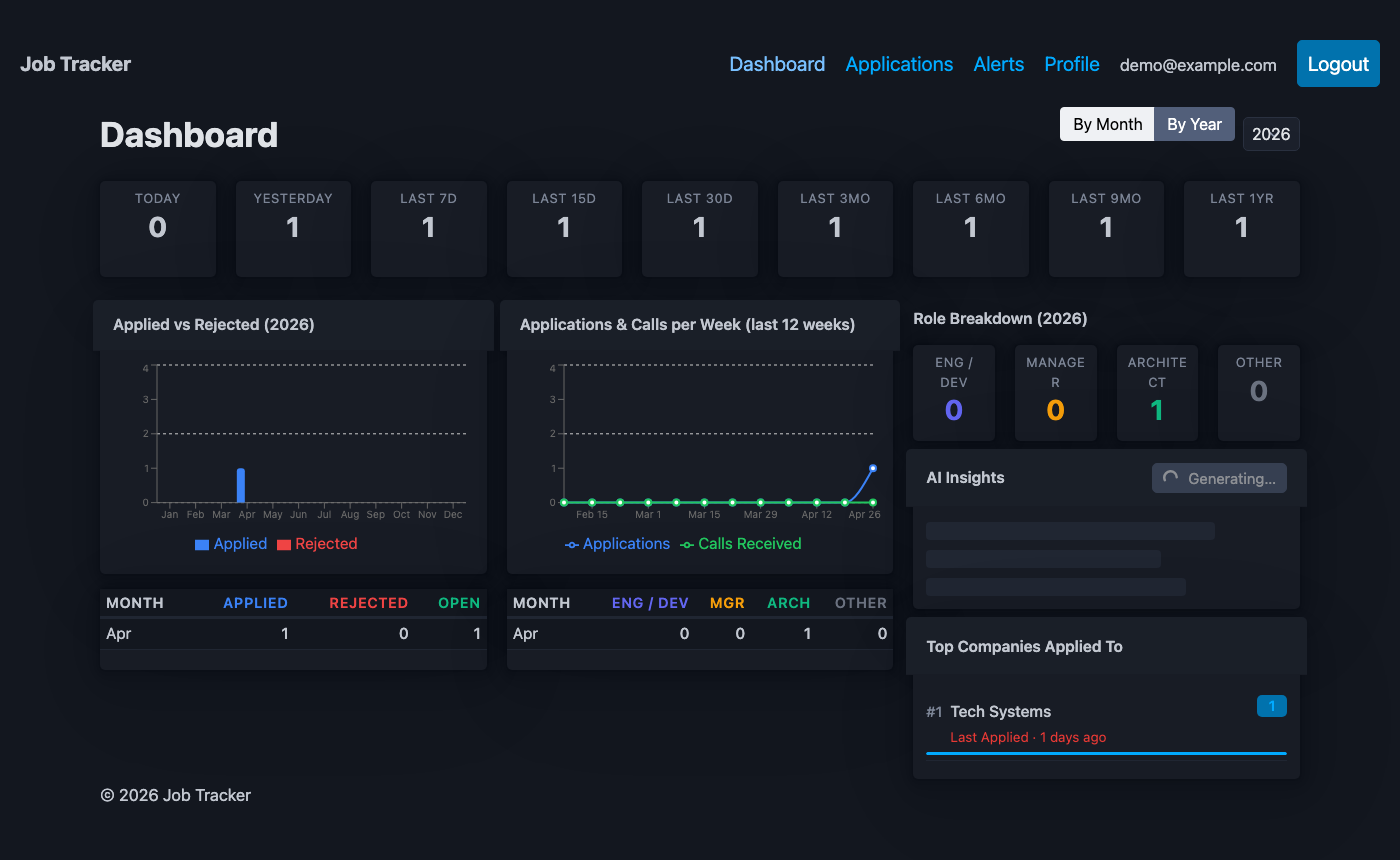
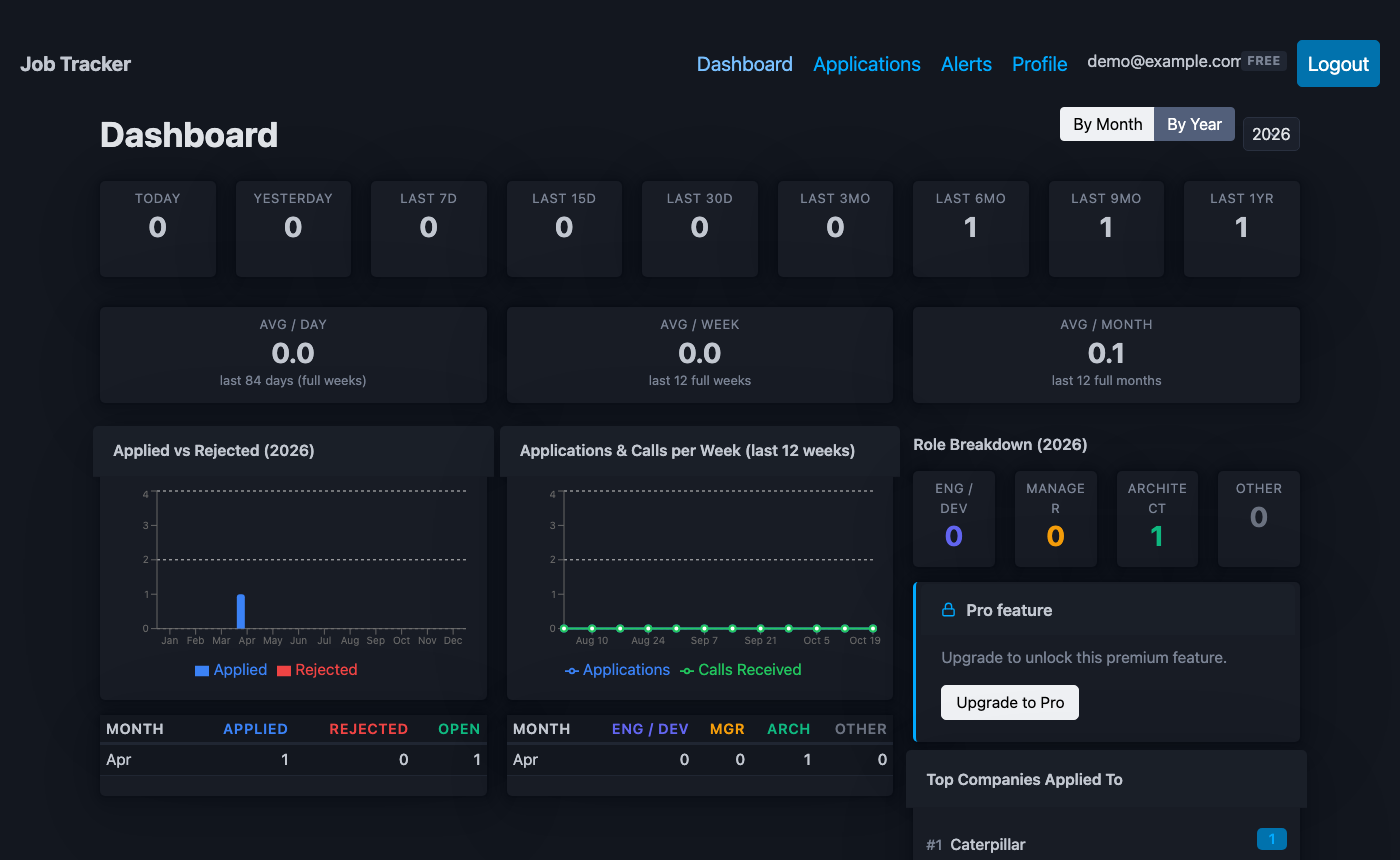
feat(stats): add daily/weekly/monthly application averages to dashboard
- stats-service: new GET /v1/stats/averages (trailing 12 completed weeks and
  12 completed months; current partial period excluded; daily = weekly total / 84),
  Redis-cached per user
- stats-listener: evict stats-averages cache on every event
- frontend: AverageCards component under the open-window cards
- docker-compose: cap stats-service heap at 384m (Xmx512m == 512m container
  limit caused OOM kills)
- README + dashboard screenshot updated

diff --git a/frontend/src/routes/Dashboard.tsx b/frontend/src/routes/Dashboard.tsx
@@ -1,9 +1,10 @@
 import { useEffect, useState } from 'react'
 import { useQuery } from '@tanstack/react-query'
-import { getBreakdown, getRoleCounts, getStaleApps, getTopCompanies, getTrend, type BreakdownResponse, type CompanyCount, type RoleCountsResponse, type StaleApp, type TrendPoint } from '../api/stats'
+import { getAverages, getBreakdown, getRoleCounts, getStaleApps, getTopCompanies, getTrend, type Averages, type BreakdownResponse, type CompanyCount, type RoleCountsResponse, type StaleApp, type TrendPoint } from '../api/stats'
 import { getAiInsights } from '../api/ai'
 import DashboardHeader from '../components/dashboard/DashboardHeader'
 import OpenWindowsCards from '../components/dashboard/OpenWindowsCards'
+import AverageCards from '../components/dashboard/AverageCards'
 import AppliedVsRejectedChart from '../components/dashboard/AppliedVsRejectedChart'
 import WeeklyTrendChart from '../components/dashboard/WeeklyTrendChart'
 import RoleBreakdownTable from '../components/dashboard/RoleBreakdownTable'
@@ -70,6 +71,13 @@ export default function Dashboard() {
     staleTime: 60_000,
   })
 
+  const { data: averages, isLoading: averagesLoading } = useQuery<Averages>({
+    queryKey: ['averages'],
+    queryFn: getAverages,
+    enabled: !USE_MOCK,
+    staleTime: 5 * 60 * 1000,
+  })
+
   const { data: trendData, isLoading: trendLoading } = useQuery<TrendPoint[]>({
     queryKey: ['trend', '12'],
     queryFn: () => getTrend('week', 12),
@@ -98,6 +106,8 @@ export default function Dashboard() {
       />
 
       <OpenWindowsCards windows={windows} loading={loading} />
+
+      {!USE_MOCK && <AverageCards averages={averages} loading={averagesLoading} />}
 
       {error && <article><header>Error</header><p>{error}</p></article>}
       {loading && <article aria-busy="true"><p>Loading…</p></article>}

diff --git a/frontend/src/components/dashboard/AverageCards.tsx b/frontend/src/components/dashboard/AverageCards.tsx
@@ -1,0 +1,26 @@
+import type { Averages } from '../../api/stats'
+
+interface AverageCardsProps {
+  averages: Averages | undefined
+  loading: boolean
+}
+
+export default function AverageCards({ averages, loading }: AverageCardsProps) {
+  const cards = [
+    { label: 'Avg / day', value: averages?.dailyAverage, sub: `last ${(averages?.weeks ?? 12) * 7} days (full weeks)` },
+    { label: 'Avg / week', value: averages?.weeklyAverage, sub: `last ${averages?.weeks ?? 12} full weeks` },
+    { label: 'Avg / month', value: averages?.monthlyAverage, sub: `last ${averages?.months ?? 12} full months` },
+  ]
+
+  return (
+    <div className="grid" style={{ marginBottom: '0.5rem' }}>
+      {cards.map(({ label, value, sub }) => (
+        <article key={label} style={{ textAlign: 'center', padding: '0.4rem 0.35rem' }}>
+          <div style={{ fontSize: '0.65rem', color: 'var(--pico-muted-color)', textTransform: 'uppercase', letterSpacing: '0.05em', marginBottom: '0.2rem' }}>{label}</div>
+          <div style={{ fontSize: '1.4rem', fontWeight: 700, lineHeight: 1 }}>{loading || value === undefined ? '—' : value.toFixed(1)}</div>
+          <div style={{ fontSize: '0.65rem', color: 'var(--pico-muted-color)', marginTop: '0.2rem' }}>{sub}</div>
+        </article>
+      ))}
+    </div>
+  )
+}

diff --git a/frontend/src/api/stats.ts b/frontend/src/api/stats.ts
@@ -25,6 +25,20 @@ export async function getTrend(period = 'week', weeks = 12): Promise<TrendPoint[
   return res.data.points
 }
 
+export interface Averages {
+  dailyAverage: number
+  weeklyAverage: number
+  monthlyAverage: number
+  weeks: number
+  months: number
+  generatedAt: string
+}
+
+export async function getAverages(): Promise<Averages> {
+  const res = await httpStats.get<Averages>('/stats/averages')
+  return res.data
+}
+
 export interface BreakdownRow {
   label: string
   periodNum: number

diff --git a/backend/stats-service/src/main/java/com/jobtracker/stats/service/StatsService.java b/backend/stats-service/src/main/java/com/jobtracker/stats/service/StatsService.java
@@ -1,6 +1,7 @@
 package com.jobtracker.stats.service;
 
 import com.jobtracker.stats.api.dto.ActivityItemDto;
+import com.jobtracker.stats.api.dto.AveragesDto;
 import com.jobtracker.stats.api.dto.BreakdownResponseDto;
 import com.jobtracker.stats.api.dto.CompanyCountDto;
 import com.jobtracker.stats.api.dto.StaleAppDto;
@@ -34,6 +35,9 @@ public class StatsService {
 
     private static final Logger log = LoggerFactory.getLogger(StatsService.class);
     private static final DateTimeFormatter DATE_FMT = DateTimeFormatter.ofPattern("yyyy-MM-dd");
+
+    private static final int AVG_WEEKS = 12;
+    private static final int AVG_MONTHS = 12;
 
     private final JdbcTemplate jdbc;
     private final Counter queriesCounter;
@@ -101,6 +105,39 @@ public class StatsService {
         }
 
         return new TrendResponseDto("week", points);
+    }
+
+    @Cacheable(cacheNames = CacheConfig.CACHE_AVERAGES, key = "#userId + ':trailing'")
+    public AveragesDto getAverages(UUID userId) {
+        log.info("Serving averages query userId={}", userId);
+        queriesCounter.increment();
+
+        // Trailing completed periods only; the current partial week/month is excluded.
+        LocalDate thisMonday = LocalDate.now().with(TemporalAdjusters.previousOrSame(DayOfWeek.MONDAY));
+        LocalDate weekFrom = thisMonday.minusWeeks(AVG_WEEKS);
+        Long weekTotal = jdbc.queryForObject(
+                "SELECT COALESCE(SUM(cnt),0) FROM agg_weekly WHERE user_id=? AND week_start >= ? AND week_start < ?",
+                Long.class, userId, Date.valueOf(weekFrom), Date.valueOf(thisMonday));
+
+        LocalDate firstOfMonth = LocalDate.now().withDayOfMonth(1);
+        LocalDate monthFrom = firstOfMonth.minusMonths(AVG_MONTHS);
+        int fromYM = monthFrom.getYear() * 12 + monthFrom.getMonthValue();
+        int toYM = firstOfMonth.getYear() * 12 + firstOfMonth.getMonthValue();
+        Long monthTotal = jdbc.queryForObject(
+                "SELECT COALESCE(SUM(cnt),0) FROM agg_monthly WHERE user_id=? AND (year*12 + month) >= ? AND (year*12 + month) < ?",
+                Long.class, userId, fromYM, toYM);
+
+        // Daily = same trailing completed weeks, spread over every calendar day (7 per week).
+        return new AveragesDto(
+                round1((weekTotal == null ? 0 : weekTotal) / (double) (AVG_WEEKS * 7)),
+                round1((weekTotal == null ? 0 : weekTotal) / (double) AVG_WEEKS),
+                round1((monthTotal == null ? 0 : monthTotal) / (double) AVG_MONTHS),
+                AVG_WEEKS, AVG_MONTHS,
+                OffsetDateTime.now().toString());
+    }
+
+    private static double round1(double v) {
+        return Math.round(v * 10.0) / 10.0;
     }
 
     @Cacheable(cacheNames = CacheConfig.CACHE_BREAKDOWN, key = "#userId + ':' + #groupBy + ':' + #year + ':' + #tz")

diff --git a/backend/stats-service/src/main/java/com/jobtracker/stats/config/CacheConfig.java b/backend/stats-service/src/main/java/com/jobtracker/stats/config/CacheConfig.java
@@ -3,6 +3,7 @@ package com.jobtracker.stats.config;
 import com.fasterxml.jackson.databind.ObjectMapper;
 import com.fasterxml.jackson.databind.SerializationFeature;
 import com.fasterxml.jackson.datatype.jsr310.JavaTimeModule;
+import com.jobtracker.stats.api.dto.AveragesDto;
 import com.jobtracker.stats.api.dto.BreakdownResponseDto;
 import com.jobtracker.stats.api.dto.CompanyCountDto;
 import com.jobtracker.stats.api.dto.RoleCountsResponseDto;
@@ -31,6 +32,7 @@ public class CacheConfig {
     public static final String CACHE_BREAKDOWN = "stats-breakdown";
     public static final String CACHE_ROLES     = "stats-roles";
     public static final String CACHE_COMPANIES = "stats-companies";
+    public static final String CACHE_AVERAGES  = "stats-averages";
 
     @Bean
     public RedisCacheManager cacheManager(RedisConnectionFactory cf) {
@@ -58,6 +60,9 @@ public class CacheConfig {
                 .withCacheConfiguration(CACHE_ROLES,
                         base.serializeValuesWith(fromSerializer(
                                 new Jackson2JsonRedisSerializer<>(om, RoleCountsResponseDto.class))))
+                .withCacheConfiguration(CACHE_AVERAGES,
+                        base.serializeValuesWith(fromSerializer(
+                                new Jackson2JsonRedisSerializer<>(om, AveragesDto.class))))
                 .withCacheConfiguration(CACHE_COMPANIES,
                         base.serializeValuesWith(fromSerializer(
                                 new Jackson2JsonRedisSerializer<>(om,

diff --git a/backend/stats-service/src/main/java/com/jobtracker/stats/api/StatsController.java b/backend/stats-service/src/main/java/com/jobtracker/stats/api/StatsController.java
@@ -1,6 +1,7 @@
 package com.jobtracker.stats.api;
 
 import com.jobtracker.stats.api.dto.ActivityItemDto;
+import com.jobtracker.stats.api.dto.AveragesDto;
 import com.jobtracker.stats.api.dto.BreakdownResponseDto;
 import com.jobtracker.stats.api.dto.CompanyCountDto;
 import com.jobtracker.stats.api.dto.StaleAppDto;
@@ -48,6 +49,11 @@ public class StatsController {
             @RequestParam(defaultValue = "week") String period,
             @RequestParam(defaultValue = "12") @Min(1) @Max(52) int weeks) {
         return svc.getTrend(currentUserId(), weeks);
+    }
+
+    @GetMapping("/averages")
+    public AveragesDto averages() {
+        return svc.getAverages(currentUserId());
     }
 
     @GetMapping("/breakdown")

diff --git a/backend/stats-listener/src/main/java/com/jobtracker/statslistener/listener/ApplicationEventListener.java b/backend/stats-listener/src/main/java/com/jobtracker/statslistener/listener/ApplicationEventListener.java
@@ -105,7 +105,7 @@ public class ApplicationEventListener {
 
     private void evictStatsCache(UUID userId) {
         String prefix = userId.toString() + ":";
-        for (String cacheName : new String[]{"stats-summary", "stats-trend", "stats-breakdown", "stats-roles", "stats-companies"}) {
+        for (String cacheName : new String[]{"stats-summary", "stats-trend", "stats-breakdown", "stats-roles", "stats-companies", "stats-averages"}) {
             var keys = redis.keys(cacheName + "::" + prefix + "*");
             if (keys != null && !keys.isEmpty()) {
                 redis.delete(keys);

diff --git a/backend/stats-service/src/main/java/com/jobtracker/stats/api/dto/AveragesDto.java b/backend/stats-service/src/main/java/com/jobtracker/stats/api/dto/AveragesDto.java
@@ -1,0 +1,10 @@
+package com.jobtracker.stats.api.dto;
+
+public record AveragesDto(
+        double dailyAverage,
+        double weeklyAverage,
+        double monthlyAverage,
+        int weeks,
+        int months,
+        String generatedAt
+) {}

diff --git a/README.md b/README.md
@@ -182,9 +182,9 @@ This is the **Transactional Outbox Pattern** — Kafka being down never causes d
 - **Activity Feed** — Each Application Detail page shows a live activity timeline. Every create, status update, and deletion is translated into a human-readable message (e.g. "Applied for SWE at Google via LinkedIn", "Status changed to OFFER") and stored in the `activity_feed` table. Powered by Kafka fan-out: a second consumer group (`activity-service`) runs in `stats-listener` alongside the existing `stats-service` group, tracking independent offsets on the same `application-events` topic — no producer changes required. Idempotent via a unique constraint on `(app_id, event_type, occurred_at)`
 - **AI Insights (RAG-grounded)** *(Premium)* — The Dashboard includes an "AI Insights" card powered by a locally-running LLM (Ollama + `qwen2.5:1.5b`) and a **retrieval-augmented generation pipeline**, not just aggregate numbers. On each request, **`ai-service`** (port 8085) syncs a per-user vector index in Postgres/pgvector (`jt_ai`) from live application data pulled from `applications-service` — company, role, status, salary, dates, tags, free-text notes, and the full status-change timeline — via a dedicated `GET /v1/applications/context` endpoint (forwarding the caller's JWT). Each application is embedded with Ollama's `nomic-embed-text` model; a SHA-256 content hash means only applications that actually changed since the last sync are re-embedded. At generation time, the service runs targeted similarity searches (ghosting/stalled applications, fast-moving applications, notable notes/red flags), merges the retrieved records with per-user aggregate stats, and asks the chat model for 3–5 concise, actionable insights grounded in the user's real data — not just restated counts. Endpoint: `POST /v1/ai/insights`. Fully offline — no API key required
 - **Smart Create (Natural-Language Application Entry)** *(Premium)* — On the New Application page, a "✦ Smart create with AI" section accepts a free-text sentence like *"Today I applied to a senior engineer position at Microsoft using LinkedIn with a salary range of $100,000 to $200,000"* and extracts a structured DTO (company, role, status, source, salary range, currency, applied date, location, job link, tags, notes). The same `ai-service` handles the parsing: `POST /v1/ai/applications/parse` returns parsed fields **without persisting** so the user can review and edit the form before saving via the existing create flow. The frontend merges parsed values non-destructively (never overwrites a field the user has already typed). Built on the same Spring AI `ChatClient` + Ollama stack as AI Insights — fully offline, no API key
-- **Analytics Dashboard** — By Month / By Year toggle with grouped Applied vs Rejected bar chart, summary table, 7 open-window KPI cards (last 7d / 15d / 30d / 3mo / 6mo / 9mo / 1yr), and a **Top Companies** widget ranking the top 10 companies by application count with a relative fill bar for quick visual comparison
+- **Analytics Dashboard** — By Month / By Year toggle with grouped Applied vs Rejected bar chart, summary table, open-window KPI cards (today through last 1yr), **Avg / day · Avg / week · Avg / month** cards (trailing 12 completed weeks / months, current partial period excluded), and a **Top Companies** widget ranking the top 10 companies by application count with a relative fill bar for quick visual comparison
 - **Pre-computed aggregate tables** — `agg_monthly` and `agg_weekly` in `jt_stats` are maintained in-sync by stats-listener (recomputed atomically on every Kafka event); stats-service reads from these tables with indexed scans instead of live GROUP BY on the raw snapshot
-- **Redis caching** — All three stats endpoints (`/summary`, `/trend`, `/breakdown`) are cached in Redis with a 5-minute TTL, keyed per-user; the stats-listener evicts the affected user's cache keys immediately after processing each Kafka event, so the dashboard always reflects the latest data
+- **Redis caching** — The stats endpoints (`/summary`, `/trend`, `/breakdown`, `/averages`) are cached in Redis with a 5-minute TTL, keyed per-user; the stats-listener evicts the affected user's cache keys immediately after processing each Kafka event, so the dashboard always reflects the latest data
 - **Idempotent writes** — All POST/PATCH endpoints require an `Idempotency-Key` header
 - **Soft deletes** — Applications are logically deleted (`deleted_at` timestamp); all queries filter accordingly
 - **Transactional Outbox Pattern** — Events are written to `outbox_events` in the same DB transaction as the application save; a scheduled poller publishes them to Kafka, guaranteeing no event loss even if Kafka is temporarily unavailable
@@ -270,6 +270,10 @@ Response: { windowDays, totalApplied, byStatus: {...}, bySource: {...}, generate
 
 GET /v1/stats/trend?period=week&weeks=12
 Response: { period, points: [{ start, end, count }] }
+
+GET /v1/stats/averages
+Response: { dailyAverage, weeklyAverage, monthlyAverage, weeks, months, generatedAt }
+// trailing 12 completed weeks (daily = weekly total / 84) and 12 completed months; current partial period excluded
 
 GET /v1/stats/breakdown?groupBy=month&year=2025&tz=America/Phoenix
 GET /v1/stats/breakdown?groupBy=year
